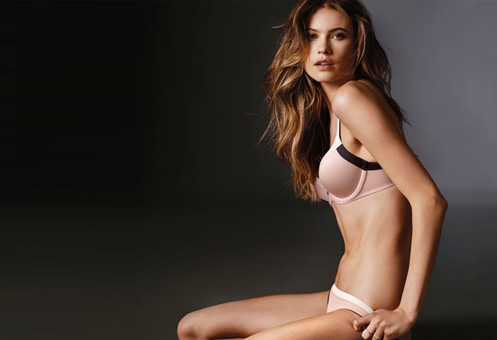
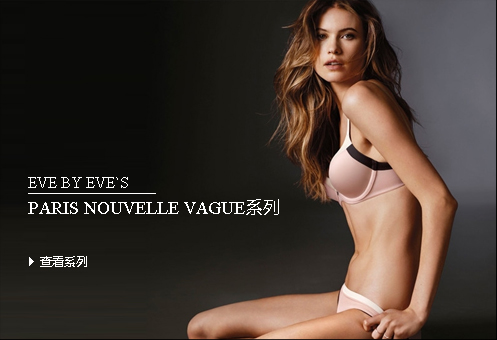
home update
home update

diff --git a/public_en/css/show/home.css b/public_en/css/show/home.css
@@ -301,38 +301,6 @@ header .mainNavBar li .checked{
 .common_mainPanel .seriesMainBlock{
 	margin-top: 20px;
 }
-.common_mainPanel .seriesMainBlock .textBlock{
-	position: absolute;
-	top: 30px;
-	left: 30px;
-	width: 280px;
-	text-align: left;
-}
-.common_mainPanel .seriesMainBlock .textBlock h4{
-	font-size: 16px;
-}
-.common_mainPanel .seriesMainBlock .textBlock .separator{
-	vertical-align: top;
-	width: 130px;
-	height: 0;
-	border-bottom: 1px solid #fff;
-}
-.common_mainPanel .seriesMainBlock .textBlock h3{
-	font-size: 18px;
-}
-.common_mainPanel .seriesMainBlock .textBlock a{
-	font-size: 12px;
-	color: #fff;
-}
-.common_mainPanel .seriesMainBlock .textBlock a i{
-	display: inline-block;
-	width:12px;
-	height:12px;
-	margin-right:10px;
-	margin-top:40px;
-	vertical-align: -1px;
-	background: url(../../img/show/icons.png) no-repeat -60px -120px;
-}
 
 .common_mainPanel .seriesMainBlock .leftGroup{
 	width: 33.46%;
@@ -341,6 +309,7 @@ header .mainNavBar li .checked{
 .common_mainPanel .seriesMainBlock .leftGroup .border{
 	margin: 0 2px 0 4px;
 	position: relative;
+	display: block;
 }
 .common_mainPanel .seriesMainBlock img{
 	width: 100%;
@@ -354,13 +323,8 @@ header .mainNavBar li .checked{
 }
 .common_mainPanel .seriesMainBlock .rightGroup .outerBorder .topGroup{
 	position: relative;
+	display: block;
 }
-.common_mainPanel .seriesMainBlock .rightGroup .outerBorder .topGroup .textBlock{
-	top: auto;
-	left: 50px;
-	bottom: 60px;
-}
-
 .common_mainPanel .seriesMainBlock .rightGroup .outerBorder .bottomGroup{
 	margin-top: 1px;
 }
@@ -371,6 +335,7 @@ header .mainNavBar li .checked{
 .common_mainPanel .seriesMainBlock .rightGroup .outerBorder .bottomGroup .left .border{
 	margin-right: 1px;
 	position: relative;
+	display: block;
 }
 .common_mainPanel .seriesMainBlock .rightGroup .outerBorder .bottomGroup .right{
 	width: 50%;
@@ -379,11 +344,7 @@ header .mainNavBar li .checked{
 .common_mainPanel .seriesMainBlock .rightGroup .outerBorder .bottomGroup .right .border{
 	margin-left: 1px;
 	position: relative;
-}
-.common_mainPanel .seriesMainBlock .rightGroup .outerBorder .bottomGroup .right .border .textBlock{
-	top: auto;
-	bottom: 70px;
-	left: 30px;
+	display: block;
 }
 .common_mainPanel .seriesBottom{
 	clear: both;

diff --git a/home.html b/home.html
@@ -246,43 +246,25 @@
 				<div class="common_centerBlock">
 					<div class="seriesMainBlock">
 						<div class="leftGroup">
-							 <div class="border">
-							 	<img src="public_en/source/show/home/series/001.jpg" />
-							 	<div class="textBlock enFontFamily">
-							 		<h4>EVE BY EVE`S</h4>
-							 		<div class="separator"></div>
-							 		<h3>PARIS NOUVELLE VAGUE系列</h3>
-							 		<a href="#"><i></i><span>查看系列</span></a>
-							 	</div>
-							 </div>
+							 <a href="#" class="border">
+							 	<img src="public_en/source/show/home/series/001.jpg" />							 	
+							 </a>
 						</div>
 						<div class="rightGroup">
 							<div class="outerBorder">
-								<div class="topGroup">
+								<a href="#" class="topGroup">
 								 	<img src="public_en/source/show/home/series/002.jpg"/>
-								 	<div class="textBlock enFontFamily">
-								 		<h4>EVE BY EVE`S</h4>
-								 		<div class="separator"></div>
-								 		<h3>PARIS NOUVELLE VAGUE系列</h3>
-								 		<a href="#"><i></i><span>查看系列</span></a>
-								 	</div>
-								 </div>
+								 </a>
 								 <div class="bottomGroup">
 								 	<div class="left">
-								 		<div class="border">
+								 		<a href="#"class="border">
 								 			<img src="public_en/source/show/home/series/003.jpg"/>
-								 		</div>
+								 		</a>
 								 	</div>
 								 	<div class="right">
-								 		<div class="border">
+								 		<a href="#" class="border">
 								 			<img src="public_en/source/show/home/series/004.jpg"/>
-								 			<div class="textBlock enFontFamily">
-										 		<h4>EVE BY EVE`S</h4>
-										 		<div class="separator"></div>
-										 		<h3>PARIS NOUVELLE VAGUE系列</h3>
-										 		<a href="#"><i></i><span>查看系列</span></a>
-										 	</div>
-								 		</div>
+								 		</a>
 								 	</div>
 								 </div>
 							 </div>
